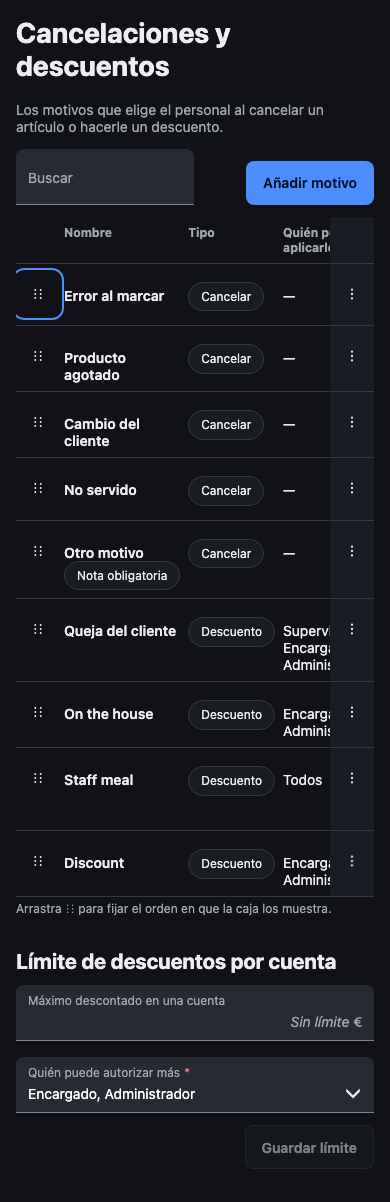
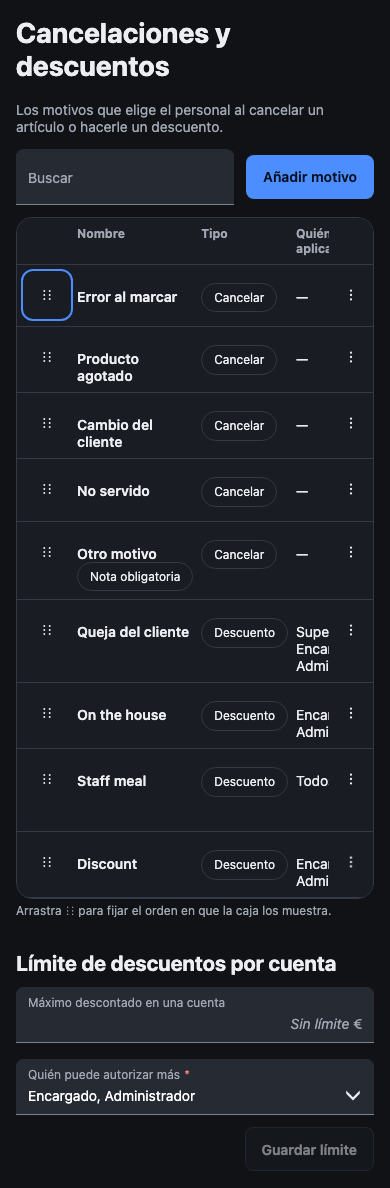
Voids and comps page: a card for the table, a full-width search, and true wording (A758-2)
The table now sits in a bordered, rounded card the colour of the row-menu column, so that
column no longer shows as a stripe. The search box fills the row up to Add reason, and the
button lines up with it. The drag grip's cell has room on both sides, so its focus ring is no
longer cut off or touching the name. A search with no match now says "Nothing matches your
search." (the page has no filters), and the load error names the page, "voids and comps".

Tests: the search case checks the drag sentence before the first search too, the Spanish
search case checks the no-match sentence, and each Delete-question state in the accessibility
suite checks its own marker before the scan. Two pictures retaken.

diff --git a/packages/adjustments/src/dashboard/reasons-screen.test.ts b/packages/adjustments/src/dashboard/reasons-screen.test.ts
@@ -1,12 +1,6 @@
 import { afterEach, beforeEach, describe, expect, it, vi } from "vitest";
 import { page, userEvent } from "vitest/browser";
-import {
-  LiveData,
-  codeMessage,
-  setLocale,
-  tableNoMatches,
-  type QueryController,
-} from "@waitron/dashboard-kit";
+import { LiveData, codeMessage, setLocale, type QueryController } from "@waitron/dashboard-kit";
 import type { DeleteImpact, DeleteImpactRefusal } from "@waitron/shared";
 import { applyTokens, setContentLanguages } from "@waitron/ui";
 import { chooseOption, chooseOptions, formMessageOf } from "@waitron/ui/src/test-helpers.js";
@@ -523,6 +517,7 @@ describe("the reasons list", () => {
     expect(search.getAttribute("data-test")).toBe("search");
     expect(el.shadowRoot!.querySelector(".toolbar")!.firstElementChild).toBe(search);
     const hint = () => text(el.shadowRoot!.querySelector("p.hint")!);
+    expect(hint()).toBe("Drag ⋮⋮ to set the order the till lists them in.");
 
     await type(el, "search", "compl");
     expect(rowKeys(el)).toEqual(["k", "c"]);
@@ -536,7 +531,9 @@ describe("the reasons list", () => {
 
     await type(el, "search", "zzz");
     expect(rowKeys(el)).toEqual([]);
-    expect(text(el.shadowRoot!.querySelector('[data-test="no-matches"]')!)).toBe(tableNoMatches());
+    expect(text(el.shadowRoot!.querySelector('[data-test="no-matches"]')!)).toBe(
+      "Nothing matches your search.",
+    );
     expect(hint()).toBe("Clear the search to change the order.");
 
     await type(el, "search", "");
@@ -552,6 +549,10 @@ describe("the reasons list", () => {
     await type(el, "search", "compl");
     expect(text(el.shadowRoot!.querySelector("p.hint")!)).toBe(
       ES["adjustments.order_note_searching"],
+    );
+    await type(el, "search", "zzz");
+    expect(text(el.shadowRoot!.querySelector('[data-test="no-matches"]')!)).toBe(
+      "Nada coincide con tu búsqueda.",
     );
   });
 
@@ -572,7 +573,7 @@ describe("the reasons list", () => {
 
   it("says the list could not be loaded", async () => {
     const el = await mount(fakeApi({ listReasons: vi.fn().mockRejectedValue({ code: "x" }) }));
-    expect(alert(el)).toBe("The adjustment reasons could not be loaded.");
+    expect(alert(el)).toBe("The voids and comps could not be loaded.");
     expect(el.shadowRoot!.querySelector('[data-test="page-alert"]')!.getAttribute("role")).toBe(
       "alert",
     );
@@ -1581,7 +1582,7 @@ describe("the editor", () => {
     await press(el, "save-editor");
     expect(api.updateReason).toHaveBeenCalledTimes(1);
     expect(modal(el)).toBeNull();
-    expect(alert(el)).toBe("The adjustment reasons could not be loaded.");
+    expect(alert(el)).toBe("The voids and comps could not be loaded.");
   });
 
   it("closes on Cancel without saving", async () => {

diff --git a/packages/adjustments/src/dashboard/reasons-screen.ts b/packages/adjustments/src/dashboard/reasons-screen.ts
@@ -3,13 +3,7 @@ import { customElement, property, state } from "lit/decorators.js";
 import { keyed } from "lit/directives/keyed.js";
 import { live } from "lit/directives/live.js";
 import { repeat } from "lit/directives/repeat.js";
-import {
-  QueryController,
-  codeMessage,
-  codeOf,
-  currentLocale,
-  tableNoMatches,
-} from "@waitron/dashboard-kit";
+import { QueryController, codeMessage, codeOf, currentLocale } from "@waitron/dashboard-kit";
 import { formatMoney, searchBy, type DeleteImpact } from "@waitron/shared";
 import {
   baseStyles,
@@ -214,10 +208,13 @@ export class AdjustmentReasonsScreen extends LitElement {
       .toolbar {
         display: flex;
         flex-wrap: wrap;
-        align-items: end;
+        align-items: center;
         justify-content: space-between;
         gap: var(--wt-space-3);
         margin-block: var(--wt-space-3);
+      }
+      .toolbar wt-input[name="search"] {
+        flex: 1 1 auto;
       }
       .empty {
         display: grid;
@@ -231,11 +228,19 @@ export class AdjustmentReasonsScreen extends LitElement {
         color: var(--wt-color-text-muted);
         font-size: var(--wt-font-size-sm);
       }
+      .table-wrap {
+        background: var(--wt-color-surface);
+        border: 1px solid var(--wt-color-border);
+        border-radius: var(--wt-radius-lg);
+      }
       .handle-cell,
       td.actions-cell {
         width: 1%;
         padding-inline: 0;
         white-space: nowrap;
+      }
+      .handle-cell {
+        padding-inline: var(--wt-space-2) var(--wt-space-1);
       }
       td.actions-cell {
         text-align: end;
@@ -1177,7 +1182,7 @@ export class AdjustmentReasonsScreen extends LitElement {
   #table(rows: readonly AdjustmentReason[]) {
     const note = t(this.#searching ? "adjustments.order_note_searching" : "adjustments.order_note");
     if (rows.length === 0)
-      return html`<p role="status" data-test="no-matches">${tableNoMatches()}</p>
+      return html`<p role="status" data-test="no-matches">${t("adjustments.no_matches")}</p>
         <p class="hint">${note}</p>`;
     return html`<div
         class="table-wrap"

diff --git a/packages/adjustments/src/dashboard/reasons-screen.a11y.test.ts b/packages/adjustments/src/dashboard/reasons-screen.a11y.test.ts
@@ -326,15 +326,20 @@ describe.each(["light", "dark"] as const)("adjustment reasons accessibility (%s)
   });
 
   test.each([
-    ["loading", () => new Promise<never>(() => {})],
-    ["ready", async () => impact()],
+    ["loading", () => new Promise<never>(() => {}), ".status[role=status]"],
+    ["ready", async () => impact(), "[data-irreversible]:not([data-group=refusals] ~ *)"],
     [
       "refused",
       async () =>
         impact([{ code: "adjustment_reason.void_required", params: { withNote: 1 }, targets: [] }]),
+      "[data-group=refusals] li",
     ],
-    ["after a failed read", () => Promise.reject({ code: "server.internal" })],
-  ] as const)("the delete question, %s", async (_state, read) => {
+    [
+      "after a failed read",
+      () => Promise.reject({ code: "server.internal" }),
+      '[data-test="delete-retry"]',
+    ],
+  ] as const)("the delete question, %s", async (_state, read, marker) => {
     const el = await screen(theme, {
       watchReasonDeleteImpact: vi.fn(
         (queries: QueryController, reasonId: string, apply: (value: DeleteImpact) => void) =>
@@ -346,7 +351,9 @@ describe.each(["light", "dark"] as const)("adjustment reasons accessibility (%s)
       ),
     });
     await press(el, "delete-e");
-    expect(el.shadowRoot!.querySelector("wt-delete-dialog")).not.toBeNull();
+    const dialog = el.shadowRoot!.querySelector("wt-delete-dialog")!;
+    await dialog.updateComplete;
+    expect(dialog.shadowRoot!.querySelector(marker), marker).not.toBeNull();
     await expectNoA11yViolations(host);
   });
 

diff --git a/packages/adjustments/src/dashboard/strings.ts b/packages/adjustments/src/dashboard/strings.ts
@@ -91,7 +91,8 @@ const en = {
   "adjustments.error.void_required": "A venue keeps at least one Void reason.",
   "adjustments.error.void_required_note":
     "A venue keeps at least one Void reason that asks for a note.",
-  "adjustments.load_error": "The adjustment reasons could not be loaded.",
+  "adjustments.load_error": "The voids and comps could not be loaded.",
+  "adjustments.no_matches": "Nothing matches your search.",
   "adjustments.reorder_error": "The new order could not be saved.",
   "adjustments.limit.heading": "Limit on a bill's comps",
   "adjustments.limit.field": "Most comped on one bill",
@@ -250,7 +251,8 @@ const es: Record<keyof typeof en, string> = {
   "adjustments.error.void_required": "El local necesita al menos un motivo de cancelación.",
   "adjustments.error.void_required_note":
     "El local necesita al menos un motivo de cancelación que pida una nota.",
-  "adjustments.load_error": "No se pudieron cargar los motivos de ajuste.",
+  "adjustments.load_error": "No se pudieron cargar las cancelaciones y descuentos.",
+  "adjustments.no_matches": "Nada coincide con tu búsqueda.",
   "adjustments.reorder_error": "No se pudo guardar el nuevo orden.",
   "adjustments.limit.heading": "Límite de descuentos por cuenta",
   "adjustments.limit.field": "Máximo descontado en una cuenta",
